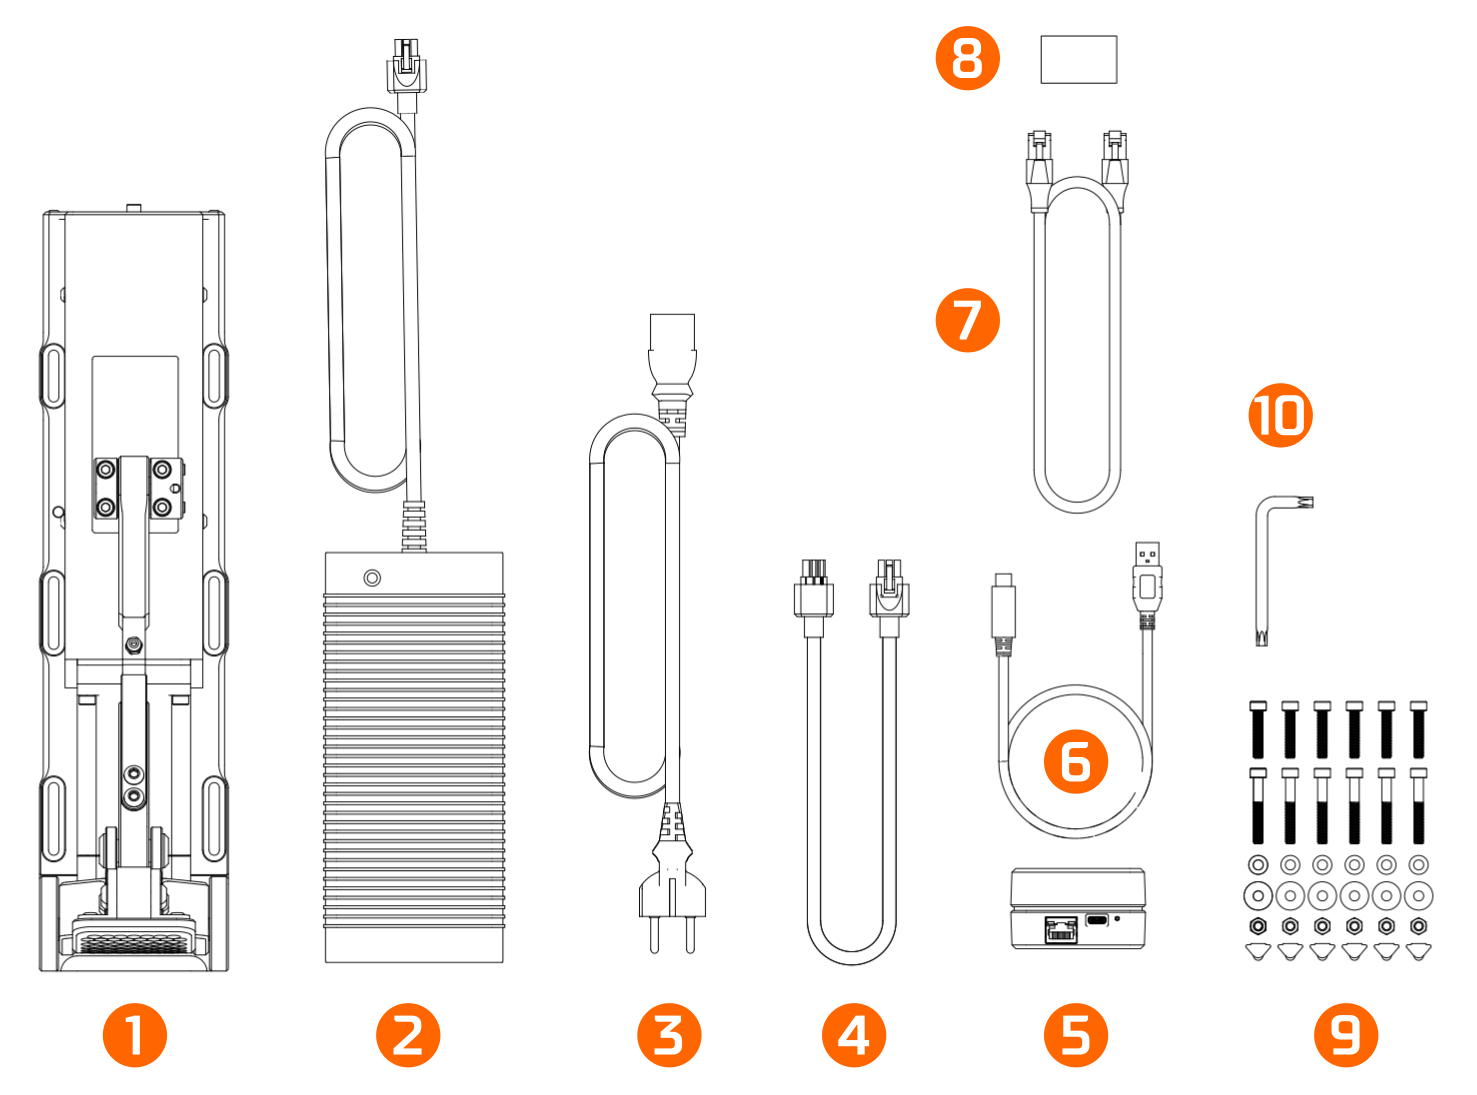
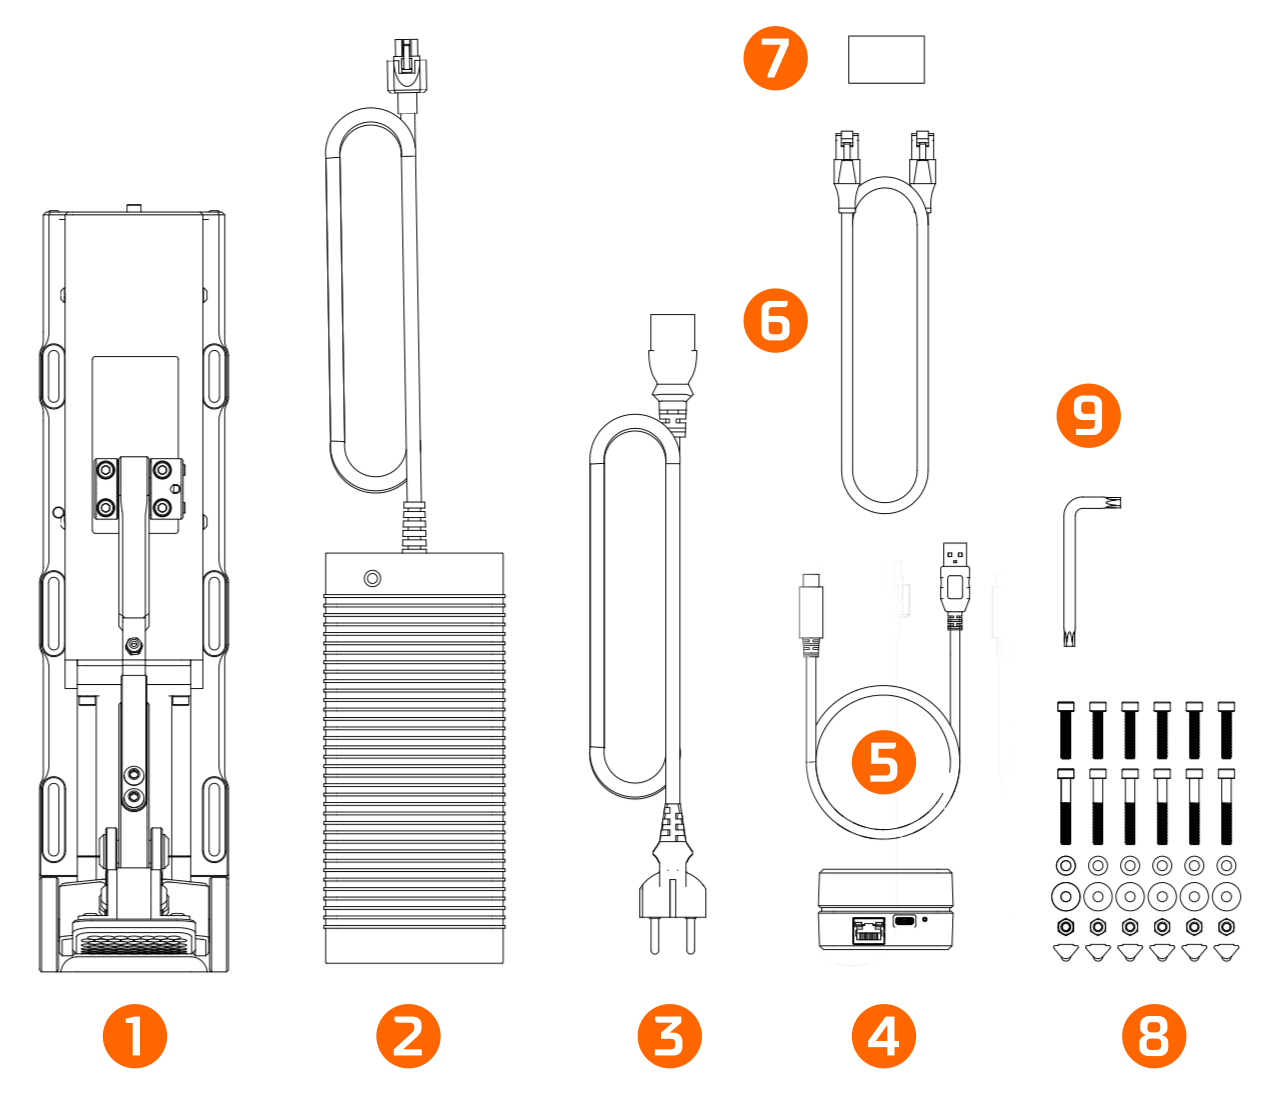
Fixed AP primary set box contents (removed DC link cable that is not part of the kit)

diff --git a/docs/ActivePedal/Items needed.md b/docs/ActivePedal/Items needed.md
@@ -28,13 +28,12 @@ For systems with total of two or three ActivePedals:
 | 1. ActivePedal           | 1 pc  |
 | 2.  Power adapter        | 1 pc  |
 | 3.  AC power cord        | 1 pc |
-| 4. DC power cord         | 1 pc  |
-| 5. SC-Link Hub           | 1 pc  |
-| 6. USB cable             | 1 pc  |
-| 7. RJ45 cable            | 1 pc  |
-| 8. SC-Link mounting tape | 1 pc  |
-| 9. Screw kit <br> &ensp; &ensp; - M5x25 allen head bolts <br> &ensp; &ensp; - M5x35 allen head bolts <br> &ensp; &ensp; - M5 washers, small <br> &ensp; &ensp; - M5 washers, large <br> &ensp; &ensp; - M5 nylock nut <br> &ensp; &ensp; - M5 t-slot nut, 8mm slot <br> | <br> 6 pc <br> 6 pc <br> 6 pc <br> 6 pc <br> 6 pc <br> 6 pc  |
-| 10. Torx key             | 1 pc  |
+| 4. SC-Link Hub           | 1 pc  |
+| 5. USB cable             | 1 pc  |
+| 6. RJ45 cable            | 1 pc  |
+| 7. SC-Link mounting tape | 1 pc  |
+| 8. Screw kit <br> &ensp; &ensp; - M5x25 allen head bolts <br> &ensp; &ensp; - M5x35 allen head bolts <br> &ensp; &ensp; - M5 washers, small <br> &ensp; &ensp; - M5 washers, large <br> &ensp; &ensp; - M5 nylock nut <br> &ensp; &ensp; - M5 t-slot nut, 8mm slot <br> | <br> 6 pc <br> 6 pc <br> 6 pc <br> 6 pc <br> 6 pc <br> 6 pc  |
+| 9. Torx key             | 1 pc  |
 
 ### ActivePedal Add-on set
 
